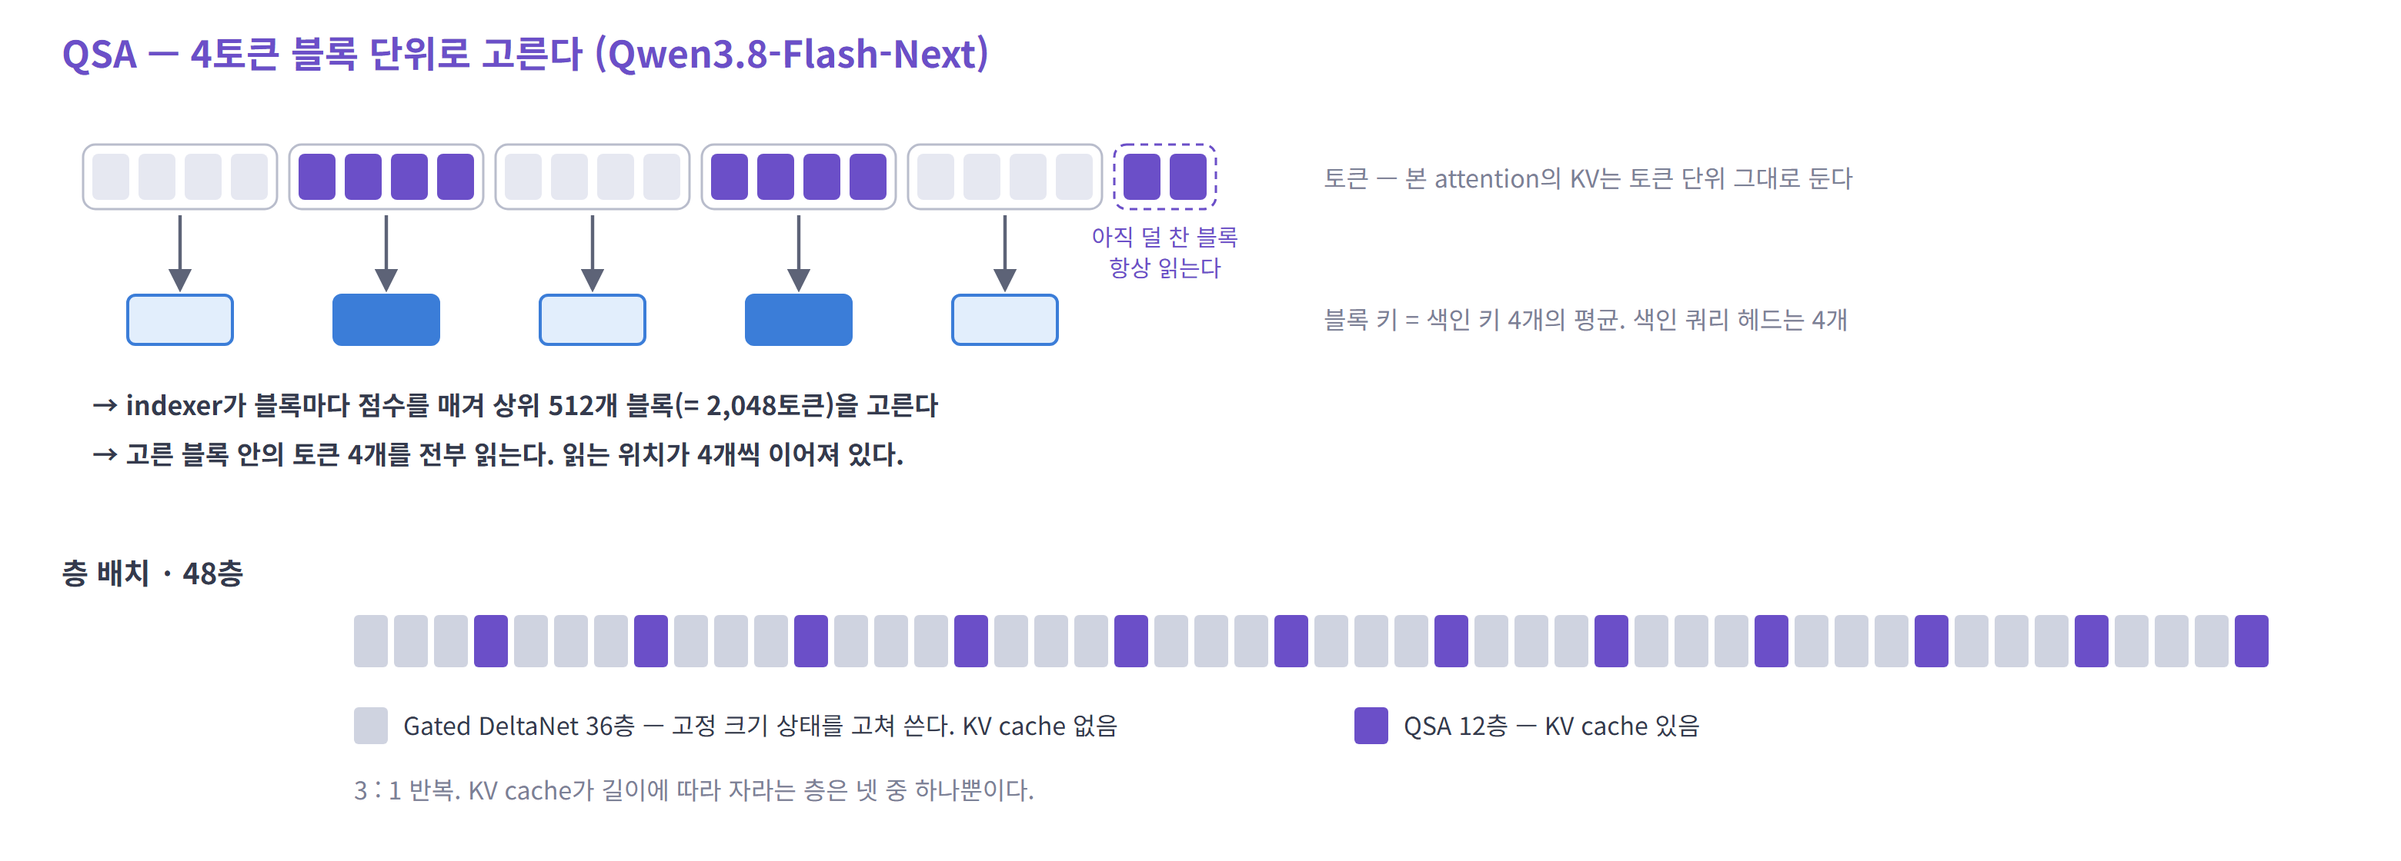
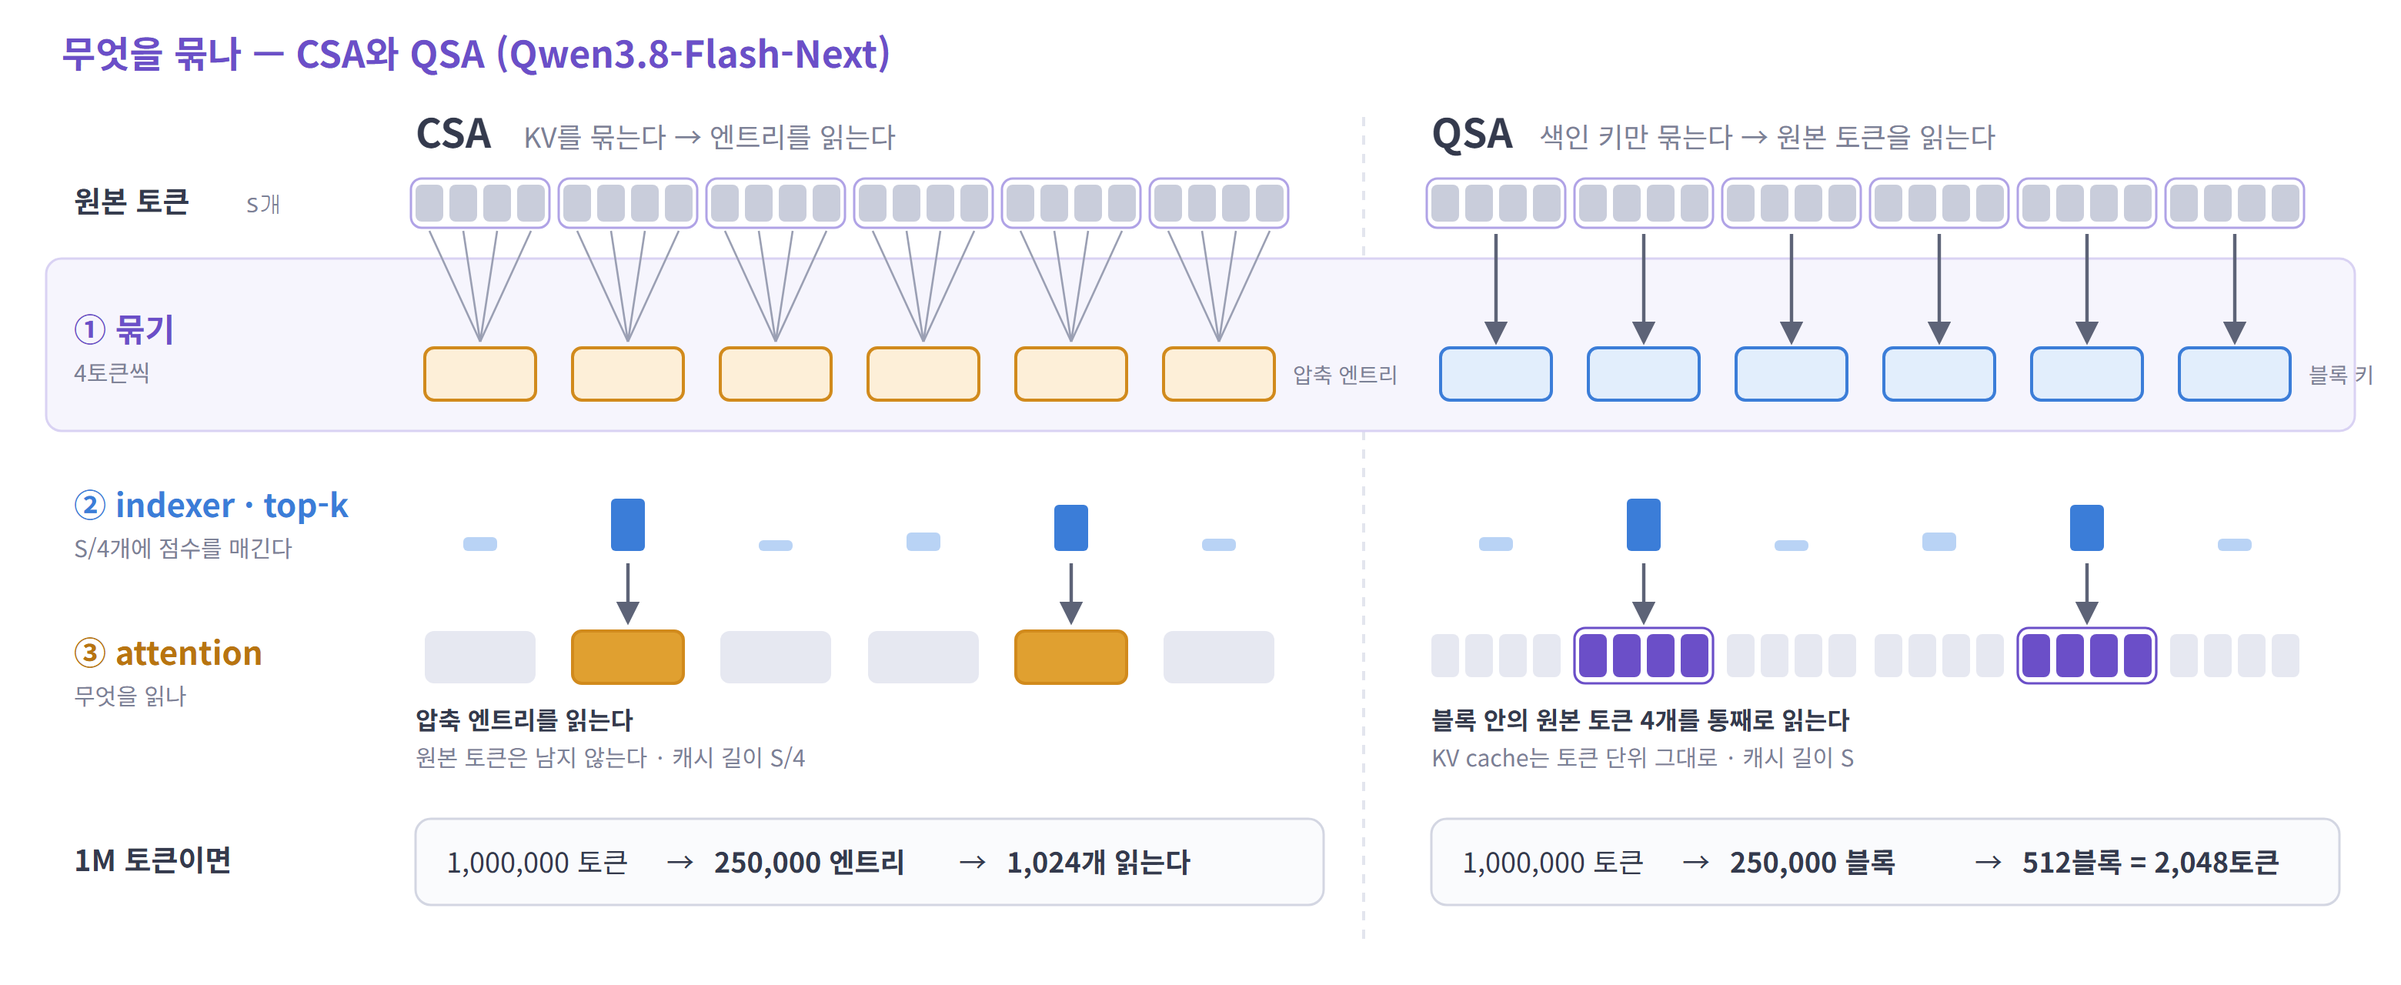
docs: rework the QSA section of the attention seminar

diff --git a/seminar/figures/make_figures.py b/seminar/figures/make_figures.py
@@ -475,41 +475,72 @@ def fig_v4_layers():
 
 # ---------------------------------------------------------------- 9. QSA
 def fig_qsa():
-    f = Fig("09-qsa", 1560, 560)
-    f.title(40, 44, "QSA — 4토큰 블록 단위로 고른다 (Qwen3.8-Flash-Next)")
-    step = 30
-    n = 22
-    picked = {1, 3}
-    # 토큰
-    pitch = 4 * step + 14
-    for i in range(n):
-        b = i // 4
-        on = b in picked or i >= 20
-        f.rect(60 + b * pitch + (i % 4) * step, 100, 24, 30, "#6b4fc8" if on else OFF, "none", 4)
-    for b in range(5):
-        gx = 60 + b * pitch
-        f.rect(gx - 6, 94, 4 * step + 6, 42, "none", "#b9bdcc", 8, 1.5)
-        f.arrow(gx + 2 * step - 3, 140, gx + 2 * step - 3, 188)
-        f.rect(gx + 2 * step - 37, 192, 68, 32, SOLID["i"] if b in picked else KINDS["i"][0], KINDS["i"][1], 5)
-    f.rect(60 + 5 * pitch - 6, 94, 2 * step + 6, 42, "none", "#6b4fc8", 8, 1.5, "5 4")
-    f.text(60 + 5 * pitch + step - 3, 160, "아직 덜 찬 블록", 15, color=PURPLE)
-    f.text(60 + 5 * pitch + step - 3, 180, "항상 읽는다", 15, color=PURPLE)
-    f.text(860, 122, "토큰 — 본 attention의 KV는 토큰 단위 그대로 둔다", 16, "start", color=MUTED)
-    f.text(860, 214, "블록 키 = 색인 키 4개의 평균.  색인 쿼리 헤드는 4개", 16, "start", color=MUTED)
-    f.text(60, 270, "→  indexer가 블록마다 점수를 매겨 상위 512개 블록(= 2,048토큰)을 고른다", 17, "start", 600)
-    f.text(60, 302, "→  고른 블록 안의 토큰 4개를 전부 읽는다.  읽는 위치가 4개씩 이어져 있다.", 17, "start", 600)
+    f = Fig("09-qsa", 1560, 640)
+    f.title(40, 44, "무엇을 묶나 — CSA와 QSA (Qwen3.8-Flash-Next)")
+    BLUE, AMB, TOK = "#3b7dd8", "#b87410", "#6b4fc8"
+    cw, gap, GG, m, k = 18, 4, 12, 4, 6
+    pitch = cw + gap
+    bw = m * pitch - gap
+    CX, QX = 270, 930
+    W = k * (bw + GG) - GG
+    sel = {1, 4}
 
-    # 층 배치
-    y = 380
-    f.text(40, y, "층 배치 · 48층", 19, "start", 700)
-    for i in range(48):
-        q = i % 4 == 3
-        f.rect(230 + i * 26, y + 20, 22, 34, "#6b4fc8" if q else "#cfd3e0", "none", 3)
-    f.rect(230, y + 80, 22, 24, "#cfd3e0", "none", 3)
-    f.text(262, y + 98, "Gated DeltaNet 36층 — 고정 크기 상태를 고쳐 쓴다. KV cache 없음", 16, "start")
-    f.rect(880, y + 80, 22, 24, "#6b4fc8", "none", 3)
-    f.text(912, y + 98, "QSA 12층 — KV cache 있음", 16, "start")
-    f.text(230, y + 140, "3 : 1 반복.  KV cache가 길이에 따라 자라는 층은 넷 중 하나뿐이다.", 16, "start", color=MUTED)
+    f.text(CX, 96, "CSA", 26, "start", 700)
+    f.text(CX + 70, 96, "KV를 묶는다 → 엔트리를 읽는다", 18, "start", color=MUTED)
+    f.text(QX, 96, "QSA", 26, "start", 700)
+    f.text(QX + 70, 96, "색인 키만 묶는다 → 원본 토큰을 읽는다", 18, "start", color=MUTED)
+    f.line(QX - 44, 76, QX - 44, 610, "#e3e5ee", 2, "6 6")
+    f.rect(30, 168, 1500, 112, "#f6f5fd", "#d9d2f3", 10, 1.5)
+
+    f.text(48, 138, "원본 토큰", 19, "start", 700)
+    f.text(160, 138, "S개", 15, "start", color=MUTED, mono=True)
+    f.text(48, 222, "① 묶기", 21, "start", 700, PURPLE)
+    f.text(48, 248, "4토큰씩", 15, "start", color=MUTED)
+    f.text(48, 336, "② indexer · top-k", 21, "start", 700, BLUE)
+    f.text(48, 362, "S/4개에 점수를 매긴다", 15, "start", color=MUTED)
+    f.text(48, 432, "③ attention", 21, "start", 700, AMB)
+    f.text(48, 458, "무엇을 읽나", 15, "start", color=MUTED)
+    f.text(48, 566, "1M 토큰이면", 19, "start", 700)
+
+    hs = [9, 34, 7, 12, 30, 8]
+    for x0, qsa in ((CX, False), (QX, True)):
+        for j in range(k):
+            bx = x0 + j * (bw + GG)
+            c = bx + bw / 2
+            f.cells(bx, 120, ["#c9cddb"] * m, cw, 24, gap, 4)
+            f.rect(bx - 3, 116, bw + 6, 32, "none", "#b0a3e6", 7, 1.5)
+            if qsa:
+                f.arrow(c, 152, c, 222)
+                f.rect(c - 36, 226, 72, 34, KINDS["i"][0], KINDS["i"][1], 6)
+            else:
+                for i in range(m):
+                    f.line(bx + i * pitch + cw / 2, 150, c, 222, "#9a9fb3", 1.3)
+                f.rect(c - 36, 226, 72, 34, KINDS["c"][0], KINDS["c"][1], 6)
+            on = j in sel
+            f.rect(c - 11, 358 - hs[j], 22, hs[j], BLUE if on else "#b9d3f5", "none", 3)
+            if on:
+                f.arrow(c, 366, c, 404)
+            if qsa:
+                f.cells(bx, 412, [TOK if on else OFF] * m, cw, 28, gap, 4)
+                if on:
+                    f.rect(bx - 3, 408, bw + 6, 36, "none", TOK, 7, 1.6)
+            else:
+                f.rect(c - 36, 410, 72, 34, SOLID["c"] if on else OFF, KINDS["c"][1] if on else "none", 6)
+    f.text(CX + W + 6, 249, "압축 엔트리", 14, "start", color=MUTED)
+    f.text(QX + W + 6, 249, "블록 키", 14, "start", color=MUTED)
+
+    f.text(CX, 474, "압축 엔트리를 읽는다", 16, "start", 700)
+    f.text(CX, 498, "원본 토큰은 남지 않는다 · 캐시 길이 S/4", 15, "start", color=MUTED)
+    f.text(QX, 474, "블록 안의 원본 토큰 4개를 통째로 읽는다", 16, "start", 700)
+    f.text(QX, 498, "KV cache는 토큰 단위 그대로 · 캐시 길이 S", 15, "start", color=MUTED)
+
+    for x0, a_, b_ in ((CX, "250,000 엔트리", "1,024개 읽는다"), (QX, "250,000 블록", "512블록 = 2,048토큰")):
+        f.rect(x0, 532, 590, 56, "#fafbfd", "#d3d6e2", 10, 1.5)
+        f.text(x0 + 20, 567, "1,000,000 토큰", 18, "start")
+        f.text(x0 + 172, 567, "→", 18)
+        f.text(x0 + 194, 567, a_, 18, "start", 700)
+        f.text(x0 + 362, 567, "→", 18)
+        f.text(x0 + 384, 567, b_, 18, "start", 700)
     return f
 
 
@@ -1308,18 +1339,16 @@ def fig_compress():
     return f
 
 
-# ---------------------------------------------------------------- 28. CSA · HCA 텐서 연산
-def fig_v4_tensor():
-    f = Fig("28-v4-tensor", 1560, 680)
-    f.title(40, 44, "텐서 연산으로 보면 — CSA와 HCA")
+# ---------------------------------------------------------------- 텐서 연산 카드
+def _cards(f):
     GRN, RED = "#4d9a56", "#c2479c"
     cw_, ch_, x0, px = 262, 200, 130, 280
     BG = {"g": ("#f3faf4", "#bfe0c4", GRN), "r": ("#fdf3f9", "#efc3de", RED), "n": ("#f7f8fb", "#d3d6e2", "#7b8196")}
 
-    def g_comp(gx, gy, l2):
-        f.rect(gx, gy, 228, 16, KINDS["c"][0], KINDS["c"][1], 4, 1.6)
+    def g_comp(gx, gy, l2, kind="c"):
+        f.rect(gx, gy, 228, 16, KINDS[kind][0], KINDS[kind][1], 4, 1.6)
         f.arrow(gx + 12, gy + 19, gx + 12, gy + 31)
-        f.rect(gx, gy + 34, l2, 16, SOLID["c"], KINDS["c"][1], 4, 1.6)
+        f.rect(gx, gy + 34, l2, 16, SOLID[kind], KINDS[kind][1], 4, 1.6)
 
     def g_idx(gx, gy):
         f.rect(gx, gy + 8, 34, 34, KINDS["q"][0], KINDS["q"][1], 5, 1.8)
@@ -1368,6 +1397,16 @@ def fig_v4_tensor():
         for i in range(4):
             f.arrow(x0 + i * px + cw_ + 1, y + ch_ / 2, x0 + (i + 1) * px - 2, y + ch_ / 2, color=color)
 
+    return card, none, arrows, g_comp, g_idx, g_topk, g_gather, g_att, (cw_, ch_, x0, px)
+
+
+# ---------------------------------------------------------------- 28. CSA · HCA 텐서 연산
+def fig_v4_tensor():
+    f = Fig("28-v4-tensor", 1560, 680)
+    f.title(40, 44, "텐서 연산으로 보면 — CSA와 HCA")
+    GRN, RED = "#4d9a56", "#c2479c"
+    card, none, arrows, g_comp, g_idx, g_topk, g_gather, g_att, (cw_, ch_, x0, px) = _cards(f)
+
     # ---- CSA
     y = 78
     f.text(40, y + 96, "CSA", 26, "start", 700)
@@ -1405,10 +1444,111 @@ def fig_v4_tensor():
     return f
 
 
+# ---------------------------------------------------------------- 29. QSA 읽기 패턴
+def fig_qsa_read():
+    f = Fig("29-qsa-read", 1560, 470)
+    f.title(40, 44, "같은 양을 읽어도 — 토큰 단위와 블록 단위")
+    TOK, RED, GRN = "#6b4fc8", "#c2479c", "#4d9a56"
+    n, cw, gap, x0 = 64, 14, 4, 330
+    pitch = cw + gap
+    dsa = {2, 7, 11, 12, 19, 23, 28, 30, 35, 41, 44, 46, 51, 55, 58, 62}
+    blocks = {1, 6, 9, 13}
+
+    y = 96
+    f.text(40, y + 16, "DSA", 24, "start", 700)
+    f.text(40, y + 42, "토큰 하나씩 고른다", 16, "start", color=MUTED)
+    f.cells(x0, y, [TOK if i in dsa else OFF for i in range(n)], cw, 30, gap, 3)
+    f.text(x0, y + 58, "읽는 토큰 2,048개  ·  읽는 곳 최대 2,048군데", 17, "start", 600)
+
+    y = 210
+    f.text(40, y + 16, "QSA", 24, "start", 700)
+    f.text(40, y + 42, "4토큰 블록으로 고른다", 16, "start", color=MUTED)
+    f.cells(x0, y, [TOK if i // 4 in blocks else OFF for i in range(n)], cw, 30, gap, 3)
+    for b in range(n // 4):
+        on = b in blocks
+        f.rect(x0 + b * 4 * pitch - 2, y - 4, 4 * pitch - gap + 4, 38, "none", TOK if on else "#d3d6e2", 6,
+               1.8 if on else 1)
+    f.text(x0, y + 62, "읽는 토큰 2,048개  ·  읽는 곳 512군데", 17, "start", 600)
+    f.text(x0 + 420, y + 62, "— 블록 안은 메모리에서 이어져 있다", 16, "start", color=MUTED)
+
+    f.rect(40, 330, 1480, 108, "#fafbfd", "#d3d6e2", 10, 1.5)
+    f.text(64, 368, "얻는 것", 17, "start", 700, GRN)
+    f.text(160, 368, "읽는 곳이 1/4이다. 이어진 4토큰을 한 번에 가져온다", 17, "start")
+    f.text(64, 406, "내는 것", 17, "start", 700, RED)
+    f.text(160, 406, "필요한 토큰이 하나뿐이어도 블록 4개를 다 읽는다 — 블록이 클수록 읽기는 쉬워지고 선택은 거칠어진다", 17, "start")
+    return f
+
+
+# ---------------------------------------------------------------- 30. QSA 텐서 연산
+def fig_qsa_tensor():
+    f = Fig("30-qsa-tensor", 1560, 420)
+    f.title(40, 44, "텐서 연산으로 보면 — QSA")
+    GRN, RED, TOK = "#4d9a56", "#c2479c", "#6b4fc8"
+    card, none, arrows, g_comp, g_idx, g_topk, g_gather, g_att, (cw_, ch_, x0, px) = _cards(f)
+
+    def g_blocks(gx, gy):
+        sel = (1, 3)
+        for i in range(16):
+            on = i // 4 in sel
+            f.rect(gx + i * 14, gy, 11, 16, TOK if on else "#e6e8f1", "none", 2)
+        for n_, b in enumerate(sel):
+            f.line(gx + b * 56 + 26, gy + 18, gx + 78 + n_ * 64, gy + 32, "#9a9fb3", 1.3)
+            for i in range(4):
+                f.rect(gx + 52 + n_ * 64 + i * 13, gy + 34, 11, 16, TOK, "none", 2)
+
+    def g_gqa(gx, gy):
+        f.rect(gx, gy + 8, 34, 34, KINDS["q"][0], KINDS["q"][1], 5, 1.8)
+        f.text(gx + 17, gy + 31, "q", 16, mono=True)
+        f.text(gx + 47, gy + 33, "·", 26)
+        f.rect(gx + 66, gy + 2, 70, 34, TOK, "none", 5)
+        f.rect(gx + 60, gy + 10, 70, 34, TOK, "#ffffff", 5, 1.5)
+
+    y = 78
+    f.text(40, y + 96, "QSA", 26, "start", 700)
+    f.text(40, y + 122, "4개씩", 15, "start", color=MUTED)
+    card(0, y, "① 블록 키", lambda gx, gy: g_comp(gx, gy, 57, "i"), "(S × 128)", "→ (S/4 × 128)", "n", "4토큰마다 평균")
+    card(1, y, "② indexer 점수", g_idx, "(4 × 128) × (128 × S/4)", "→ (1 × S/4)", "g", "행렬 × 행렬")
+    card(2, y, "③ top-k", g_topk, "(1 × S/4)", "→ 블록 512개", "r", "비교 · 선택")
+    card(3, y, "④ gather", g_blocks, "블록 512개", "→ 토큰 2,048개", "r", "블록째 읽기")
+    card(4, y, "⑤ attention (GQA)", g_gqa, "(12 × 256) × (256 × 2,048)", "→ (12 × 2,048)  × 2그룹", "g", "행렬 × 행렬")
+    arrows(y)
+
+    f.rect(40, 310, 1480, 78, "#fafbfd", "#d3d6e2", 10, 1.5)
+    f.rect(64, 324, 16, 16, GRN, "none", 4)
+    f.text(90, 338, "행렬곱", 16, "start", 700)
+    f.rect(170, 324, 16, 16, RED, "none", 4)
+    f.text(196, 338, "행렬곱이 아닌 일", 16, "start", 700)
+    f.text(64, 372, "DSA와 같은 다섯 단계다.  달라진 것은 ②③의 길이(S → S/4)와 ④의 단위(토큰 → 블록)다.", 18, "start", 600)
+    return f
+
+
+# ---------------------------------------------------------------- 31. QSA 층 배치
+def fig_qsa_layers():
+    f = Fig("31-qsa-layers", 1560, 300)
+    f.title(40, 44, "Qwen3.8-Flash-Next의 층 배치 — 48층")
+    TOK = "#6b4fc8"
+    x0 = 60
+    for i in range(48):
+        q = i % 4 == 3
+        f.rect(x0 + i * 30, 84, 25, 44, TOK if q else "#cfd3e0", "none", 4)
+    f.text(x0, 154, "1", 14, "start", color=MUTED, mono=True)
+    f.text(x0 + 47 * 30 + 25, 154, "48", 14, "end", color=MUTED, mono=True)
+
+    f.rect(60, 186, 700, 84, "#f7f8fb", "#d3d6e2", 10, 1.5)
+    f.rect(84, 204, 22, 22, "#cfd3e0", "none", 4)
+    f.text(118, 222, "Gated DeltaNet — 36층", 19, "start", 700)
+    f.text(84, 254, "과거를 고정 크기 상태 하나에 담는다  ·  KV cache 없음", 16, "start", color=MUTED)
+    f.rect(800, 186, 700, 84, "#f6f5fd", "#d9d2f3", 10, 1.5)
+    f.rect(824, 204, 22, 22, TOK, "none", 4)
+    f.text(858, 222, "QSA — 12층", 19, "start", 700, PURPLE)
+    f.text(824, 254, "원본 토큰을 직접 찾아 읽는다  ·  KV cache 있음", 16, "start", color=MUTED)
+    return f
+
+
 FIGS = [fig_decode, fig_heads, fig_mla_cache, fig_mla_absorb, fig_patterns, fig_dsa, fig_v4, fig_v4_layers, fig_qsa,
         fig_cache_size, fig_knobs, fig_lineage, fig_mha, fig_mla_shape, fig_swa, fig_store_read, fig_dsa_shape,
         fig_dsa_structure, fig_journey, fig_amortize, fig_mha_mqa, fig_mla_flow, fig_kv_cache, fig_kv_bars, fig_mla_tensor,
-        fig_axes, fig_compress, fig_v4_tensor]
+        fig_axes, fig_compress, fig_v4_tensor, fig_qsa_read, fig_qsa_tensor, fig_qsa_layers]
 CHROME = [r"C:\Program Files\Google\Chrome\Application\chrome.exe",
           r"C:\Program Files (x86)\Microsoft\Edge\Application\msedge.exe"]
 

diff --git a/seminar/01-attention-seminar.md b/seminar/01-attention-seminar.md
@@ -1104,18 +1104,26 @@ KV는 10%인데 FLOPs는 27%다. **압축 자체가 연산**이기 때문이다.
 > **QSA** · 2026 · Alibaba (Qwen)
 > Qwen3.8-Flash-Next (125B) — 48층 중 12층
 
-#### 구조
+출발점은 CSA와 같다. **DSA의 indexer가 토큰 `S`개를 전부 훑는다.**
+답도 같다. 먼저 묶고, 그다음 고른다. **다른 것은 무엇을 묶느냐다.**
 
-![QSA](figures/09-qsa.png)
+#### 해법 — 색인 키만 묶고, 원본 토큰을 읽는다
+
+![무엇을 묶나 — CSA와 QSA](figures/09-qsa.png)
 
 | | CSA | QSA |
 |---|---|---|
-| 무엇을 묶나 | **본 attention이 읽는 KV** | **검색용 색인 키만** |
-| 묶는 방법 | 학습된 압축 (4개 → 1개) | 4토큰 블록의 색인 키를 평균 |
-| 고르는 단위 | 압축 엔트리 1,024개 | 블록 512개 (= 2,048토큰) |
-| 읽는 것 | 압축된 엔트리 | **블록 안의 원본 토큰 4개** |
+| 묶는 것 | attention이 읽는 **KV** | indexer의 **색인 키만** |
+| 묶는 방법 | 학습된 가중합 | 4토큰의 평균 |
+| 고르는 단위 | 압축 엔트리 1,024개 | 블록 512개 |
+| 읽는 것 | 압축 엔트리 | **블록 안의 원본 토큰 4개** (모두 2,048토큰) |
+| 캐시 길이 | `S/4` | **`S` 그대로** |
 
-- CSA는 저장과 검색을 함께 줄인다. QSA는 **검색만 줄이고, 캐시는 토큰 단위 그대로** 둔다
+- CSA는 토큰을 합쳐 새 엔트리를 만든다. 원본은 남지 않는다
+- QSA의 블록은 **고르는 단위**일 뿐이다. 고른 뒤에는 원본 토큰을 그대로 읽으므로 세부 정보를 잃지 않는다
+- 대신 저장은 줄지 않는다
+
+> **CSA는 저장과 검색을 함께 줄인다. QSA는 검색만 줄인다.**
 
 <details>
 <summary>자세히 — QSA의 indexer</summary>
@@ -1137,43 +1145,69 @@ KV는 10%인데 FLOPs는 27%다. **압축 자체가 연산**이기 때문이다.
 - 평균을 먼저 내고 위치를 나중에 입힌다. 회전 각이 다른 토큰들을 그대로 평균하지 않기 위해서다
 - 고른 블록은 원래 토큰 위치로 펼쳐서 본 attention(GQA)이 읽는다
 - 아직 덜 찬 마지막 블록의 토큰은 고르는 과정 없이 항상 읽는다
-- indexer가 훑는 줄이 `1/r`이 되므로 고르는 비용도 그만큼 줄어든다
 
 </details>
 
 ---
 
-#### 함께 쓰는 층
+#### indexer 비용이 줄어드는 이유
 
-48층 = Gated DeltaNet 36 + QSA 12. 세 층은 **고정 크기 상태 하나를 고쳐 쓰고**(KV cache 없음), 네 번째 층만 QSA다.
+- 점수를 매길 대상이 **`S`개에서 `S/4`개**가 된다. 100만 토큰이면 25만 블록이다
+- 색인 쿼리 헤드가 **4개**다 (DSA는 64개)
+- 컨텍스트 길이에 비례하는 것은 그대로다. `S`가 `S/4`가 됐을 뿐이다
 
-- **DeepSeek** — 압축한 KV 위에 선택을 얹는다
-- **Qwen** — 대부분의 층은 KV를 아예 두지 않고, 정밀한 검색이 필요한 12개 층만 QSA로 보충한다
-- 그 12개 층조차 **전부 읽지 않는다**
+> **차수는 그대로다. 줄어든 것은 실제로 읽고 곱하는 양이다.**
+
+---
+
+#### 읽기 — 블록을 통째로 가져온다
+
+![같은 양을 읽어도 — 토큰 단위와 블록 단위](figures/29-qsa-read.png)
+
+- 읽는 토큰 수는 DSA와 같은 2,048개다. **읽는 곳이 2,048군데에서 512군데**로 줄어든다
+- 블록 안의 4토큰은 메모리에서 이어져 있다. 한 번에 가져온다
+- 내는 것도 있다. 필요한 토큰이 하나뿐이어도 블록 4개를 다 읽는다
+- 블록이 클수록 읽기는 쉬워지고 선택은 거칠어진다
+
+> **HCA는 gather를 없앴다. QSA는 gather의 단위를 키웠다.**
+
+---
+
+#### 텐서 연산으로 보면
+
+![텐서 연산으로 보면 — QSA](figures/30-qsa-tensor.png)
+
+- DSA와 같은 다섯 단계다. 달라진 것은 **②③의 길이**(`S` → `S/4`)와 **④의 단위**(토큰 → 블록)다
+- ①은 평균이다. 학습된 가중합을 쓰는 CSA의 압축보다 가볍다
+- 본 attention은 GQA다 (쿼리 헤드 24 · KV 헤드 2 · 헤드 차원 256). 압축하지 않은 KV를 읽는다
+
+---
+
+#### Gated DeltaNet과 함께 쓴다
+
+QSA는 모델의 모든 층에 있지 않다. **넷 중 한 층**이다.
+
+![Qwen3.8-Flash-Next의 층 배치](figures/31-qsa-layers.png)
+
+- 세 층은 Gated DeltaNet이다. 과거를 **고정 크기 상태 하나**에 담는다. KV cache가 없다
+- 고정 크기 상태는 특정 토큰을 정확히 되찾기 어렵다
+- **QSA 층의 역할이 그것이다 — 원본 토큰을 직접 찾아 읽는다**
+- 그 12개 층조차 전부 읽지 않는다. 2,048토큰만 읽는다
 
 ---
 
 #### 시스템 동작에서 달라지는 것
 
-- **gather의 단위가 커진다** — 토큰 하나씩이 아니라 이어진 4토큰을 한 번에 읽는다. 같은 양을 읽어도 조각 수가 1/4이다
-- indexer가 훑는 줄이 `S/4`로 줄고, 색인 쿼리 헤드가 **4개**뿐이다 (DSA는 64개)
-- **한 모델 안에 성격이 반대인 메모리가 함께 있다** — KV cache는 한 번 쓰고 계속 읽는다. 고정 크기 상태는 크기가 일정한 대신 **토큰마다 전체를 고쳐 쓴다**
-- 길이에 따라 자라는 캐시는 **48층 중 12층에만** 있다
+- **길이에 따라 자라는 캐시는 48층 중 12층에만 있다**
+- **성격이 반대인 메모리가 한 모델 안에 있다.** KV cache는 한 번 쓰고 계속 읽는다. 고정 크기 상태는 크기가 일정한 대신 **토큰마다 전체를 고쳐 쓴다**
 
 ---
 
-#### 수치
+#### QSA 정리
 
-컨텍스트 1M, 전부 읽는 GQA 대비 (attention 모듈만 잰 값)
-
-| | prefill | decode |
-|---|---|---|
-| 속도 | **7.6배** | **4.9배** |
-
-- 이득은 컨텍스트 64K부터 나타나고, 길수록 커진다
-- 긴 문서에서 찾는 능력은 전부 읽을 때와 같거나 높다 (RULER 512K~1M: 90.1 → 93.0)
-- 전부 읽는 attention으로 학습한 뒤, 이어서 학습하는 단계에서 QSA로 바꿨다
-- 공개된 지 얼마 안 됐다 — 채택 사례가 이 모델 하나다
+1. 색인 키만 4토큰씩 묶어 **블록 단위로 고르고, 원본 토큰을 읽는다**
+2. indexer가 훑는 양과 읽는 곳이 1/4이 된다. 캐시 크기는 줄지 않는다
+3. 모델 안에서 맡은 일은 **원본 토큰을 정확히 되찾는 것**이다
 
 > **묶는 방식은 두 회사가 같은 곳으로 모였고, 무엇과 결합할지는 갈렸다.**
 
